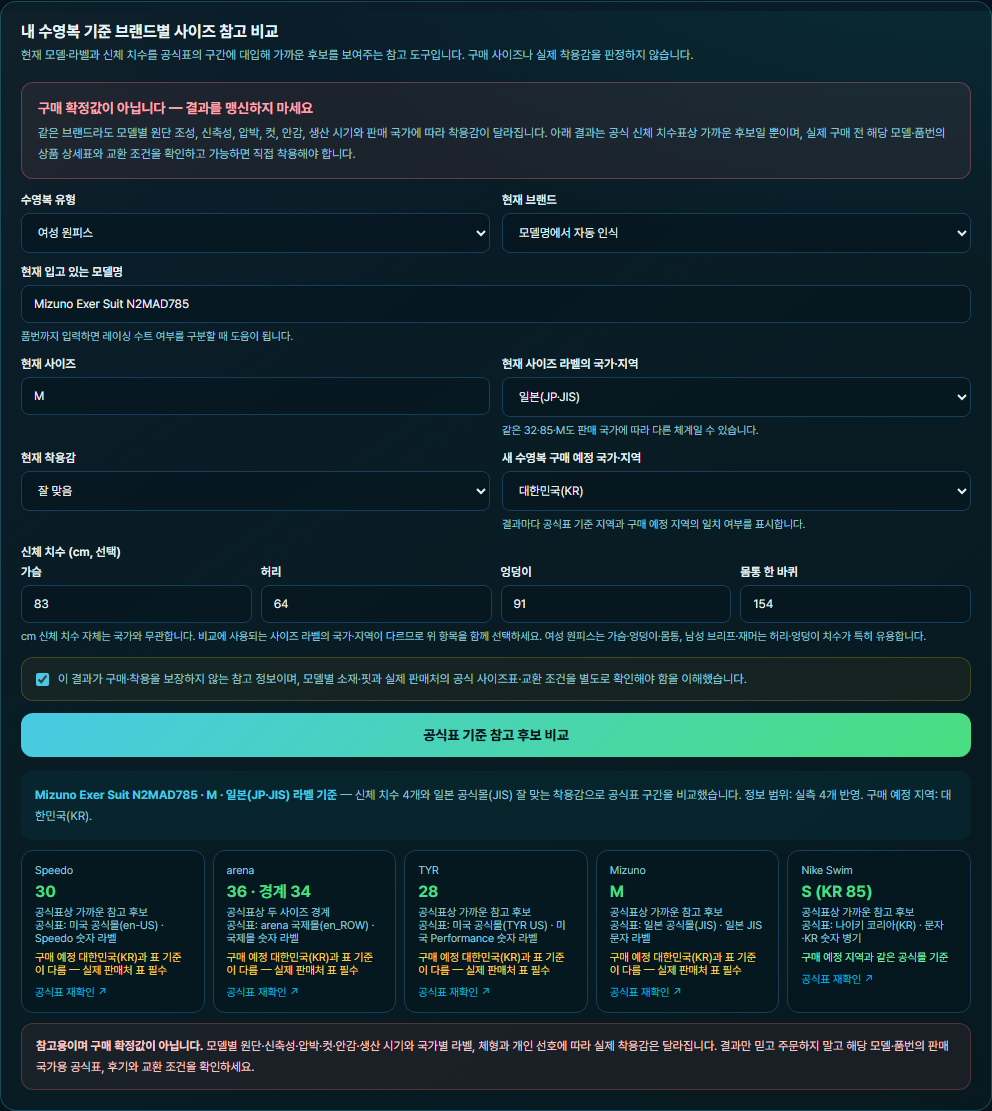
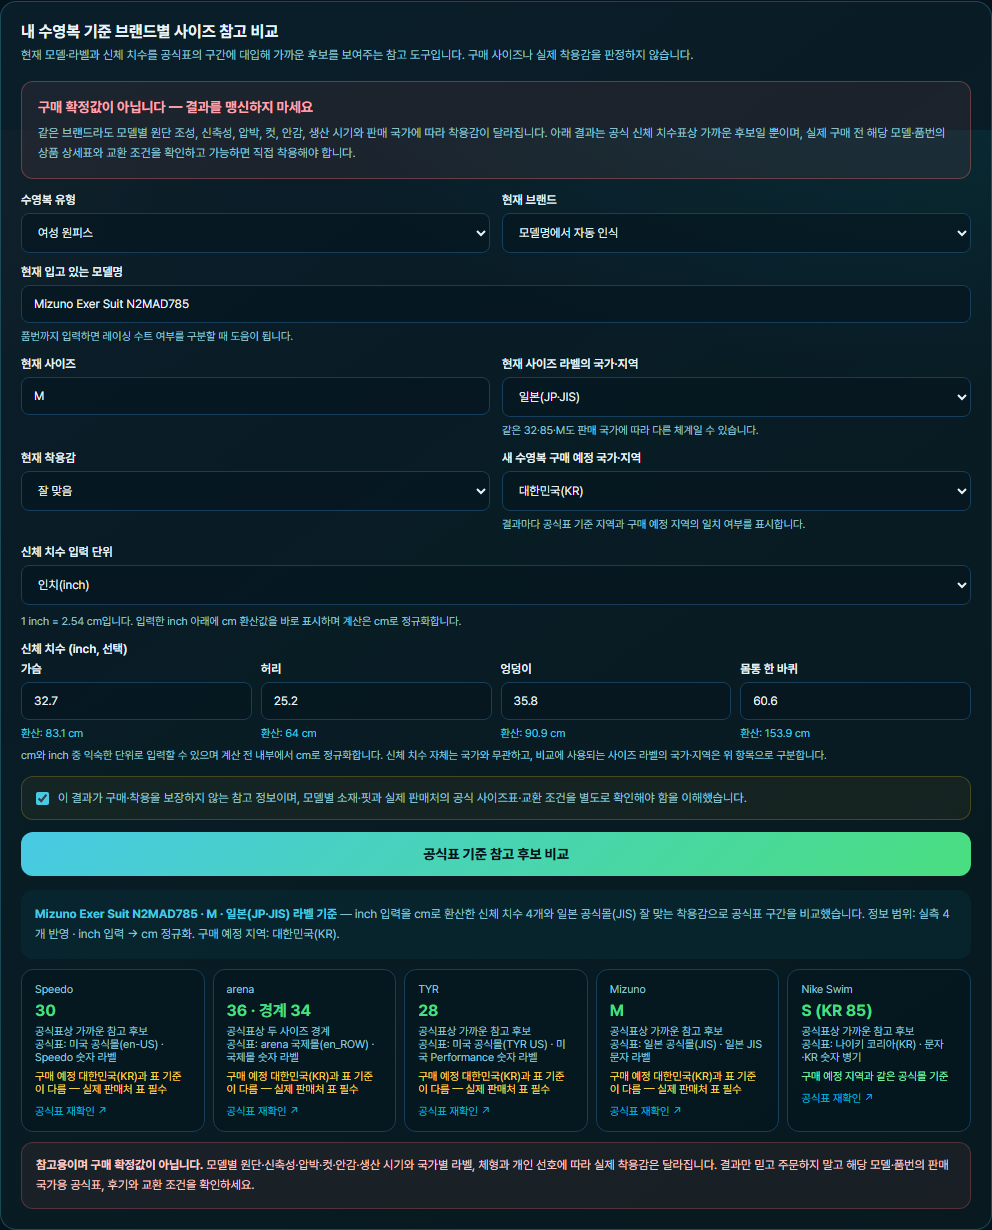
docs: record verified swimwear unit conversion

Changed region(s): [[0.0, 0.0, 1.0, 0.9793], [0.4688, 0.153, 0.625, 0.2142]]

diff --git a/docs/QUALITY_GATE.md b/docs/QUALITY_GATE.md
@@ -106,6 +106,8 @@ Postman은 일반 QA 계정과 슈퍼 관리자 계정만 사용한다. Collecti
 
 같은 날 후속 안전 보강에서는 결과를 구매 추천이 아닌 공식표 참고 비교로 변경하고 입력 전 확인·결과 후 면책에 모델별 원단·신축성·압박·컷·안감·생산 시기와 체형 차이를 명시했다. 현재 사이즈 라벨 국가와 구매 예정 국가를 입력받고 각 카드에 공식표 기준 지역·라벨 체계·지역 일치 여부를 표시하며, 현재 라벨 지역과 보유 공식표 지역이 다를 때 실측 없이 같은 숫자·문자로 환산하는 경로를 차단했다. 로컬 핵심 107/107과 공개 Playwright 시나리오를 통과한 뒤 [GitHub Actions `30793807739`](https://github.com/JinHyunjun/swimtech/actions/runs/30793807739)가 성공했다. 운영 데스크톱·390px 모바일에서 필수 확인 전 결과 차단, 5개 참고 카드, 국가 불일치 안내, 테크수트 차단, 가로 넘침·페이지 스크립트 오류 0건을 재검증했다.
 
+같은 날 cm/inch 단위 지원을 추가해 공식표 표시 단위와 신체 치수 입력 단위를 독립적으로 선택하게 했다. 입력란 아래에는 반대 단위 환산값을 즉시 표시하고 단위 선택을 왕복해도 같은 물리적 치수를 보존하며, inch 실측은 추천 로직에 전달하기 전에 1 inch = 2.54 cm로 정규화한다. 로컬 핵심 107/107과 공개 Playwright의 표 단위 전환·입력 왕복·범위 오류를 통과한 뒤 [GitHub Actions `30794830336`](https://github.com/JinHyunjun/swimtech/actions/runs/30794830336)가 성공했다. 운영 데스크톱·390px 모바일에서 동일한 결과와 가로 넘침·페이지 스크립트 오류 0건을 확인했다.
+
 ## 산출물
 
 - `tests/ci_report.html`, `tests/ci_results.xml`: 핵심 테스트 리포트

diff --git a/FEATURE_CHECKLIST.md b/FEATURE_CHECKLIST.md
@@ -383,6 +383,9 @@
 - [x] 구매 참고 경계·국가 기준 운영 검증
   - GitHub Actions `30793807739`의 핵심 107개 검사를 통과하고 운영 데스크톱·모바일에서 구매 비보장 확인, 공식표 기준 지역, 현재 라벨·구매 예정 국가, 5개 브랜드 지역 일치/불일치 표시와 국가 불일치 라벨 환산 차단을 확인.
   - 최신 운영 캡처로 서비스 설명서 이미지를 교체하고 가로 넘침·페이지 스크립트 오류가 없음을 확인.
+- [x] cm/inch 단위 전환 운영 검증
+  - GitHub Actions `30794830336`의 핵심 107개 검사를 통과하고 운영에서 공식표 cm↔inch 전환, 입력값의 cm↔inch 왕복 보존, 반대 단위 즉시 표시, inch 입력의 cm 정규화와 유효 범위 차단을 확인.
+  - 데스크톱 결과와 390px 모바일 가로 넘침·페이지 스크립트 오류 0건을 확인하고 최신 운영 캡처로 교체.
 
 ---
 
